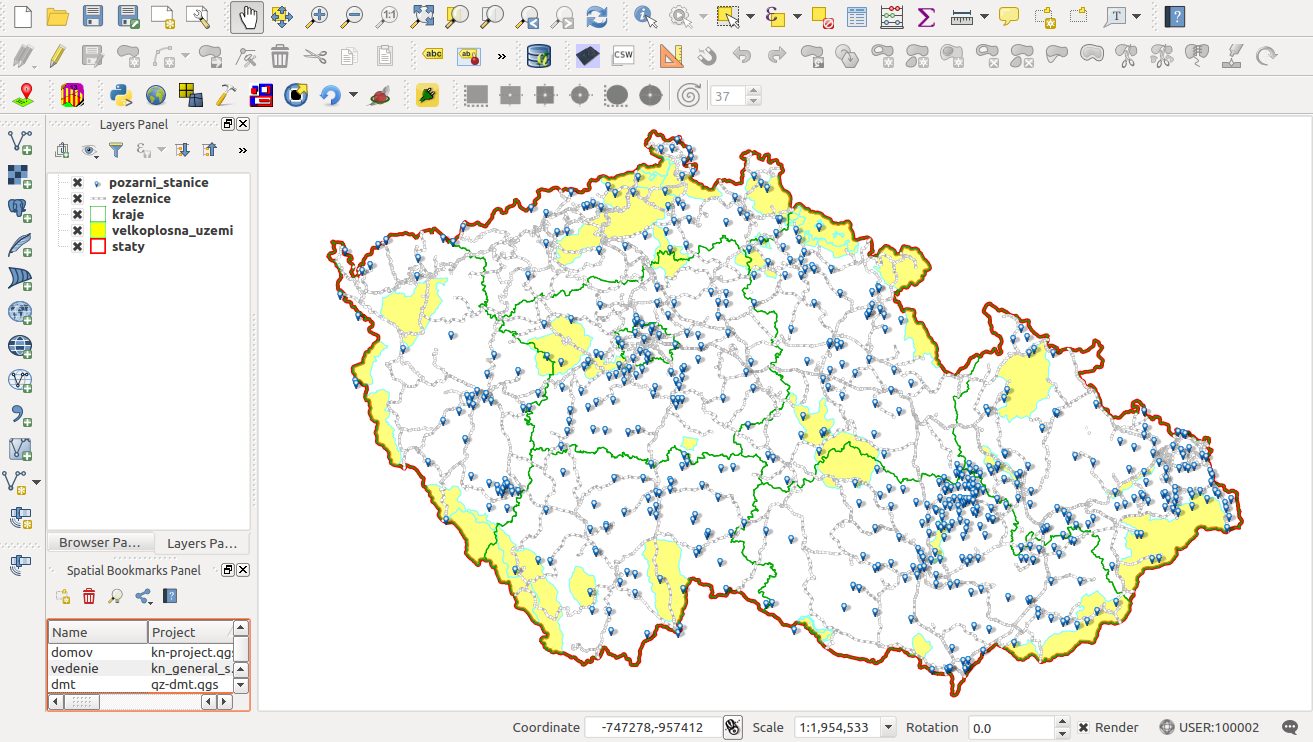
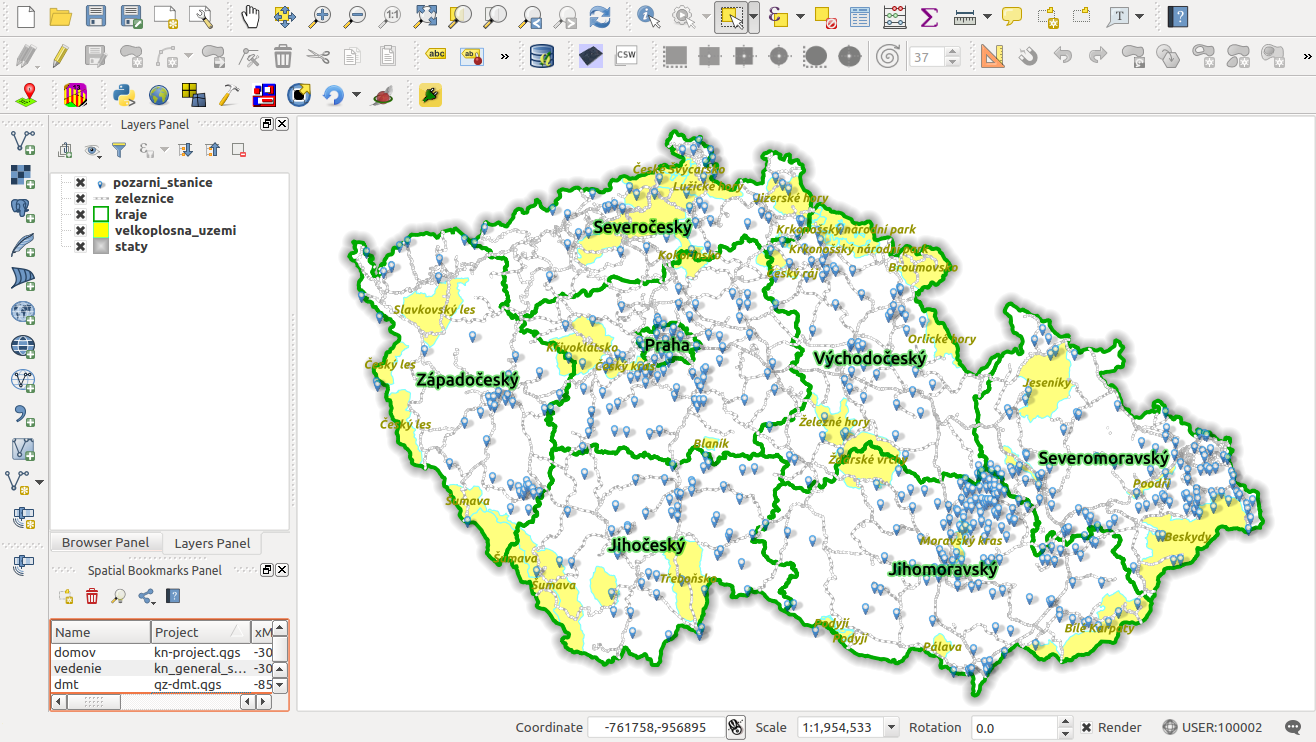
Results - save views plugin

diff --git a/ruzne/novy-plugin.rst b/ruzne/novy-plugin.rst
@@ -363,7 +363,15 @@ obsahom.
 
    Doplnenie kódu do metódy *run*.
 
+Grafické výstupy po aplikovaní na vrstvu krajov sú na :num:`#np-plugin-result`. 
 Kompletný obsah výsledného súboru `save_views.py` je uvedený nižšie.
+
+.. _np-plugin-result:
+
+.. figure:: images/np_plugin_result.png
+   :class: large
+
+   Grafické súbory uložené vo zvolenom adresári pre vektorovú vrstvu krajov Českej republiky.
 
 .. code::
 
@@ -376,7 +384,7 @@ Kompletný obsah výsledného súboru `save_views.py` je uvedený nižšie.
                                       -------------------
                 begin                : 2016-03-06
                 git sha              : $Format:%H$
-                copyright            : (C) 2016 by GISMentos
+                copyright            : (C) 2016 by GISMentors
                 email                : info@gismentors.eu
          ***************************************************************************/
         
